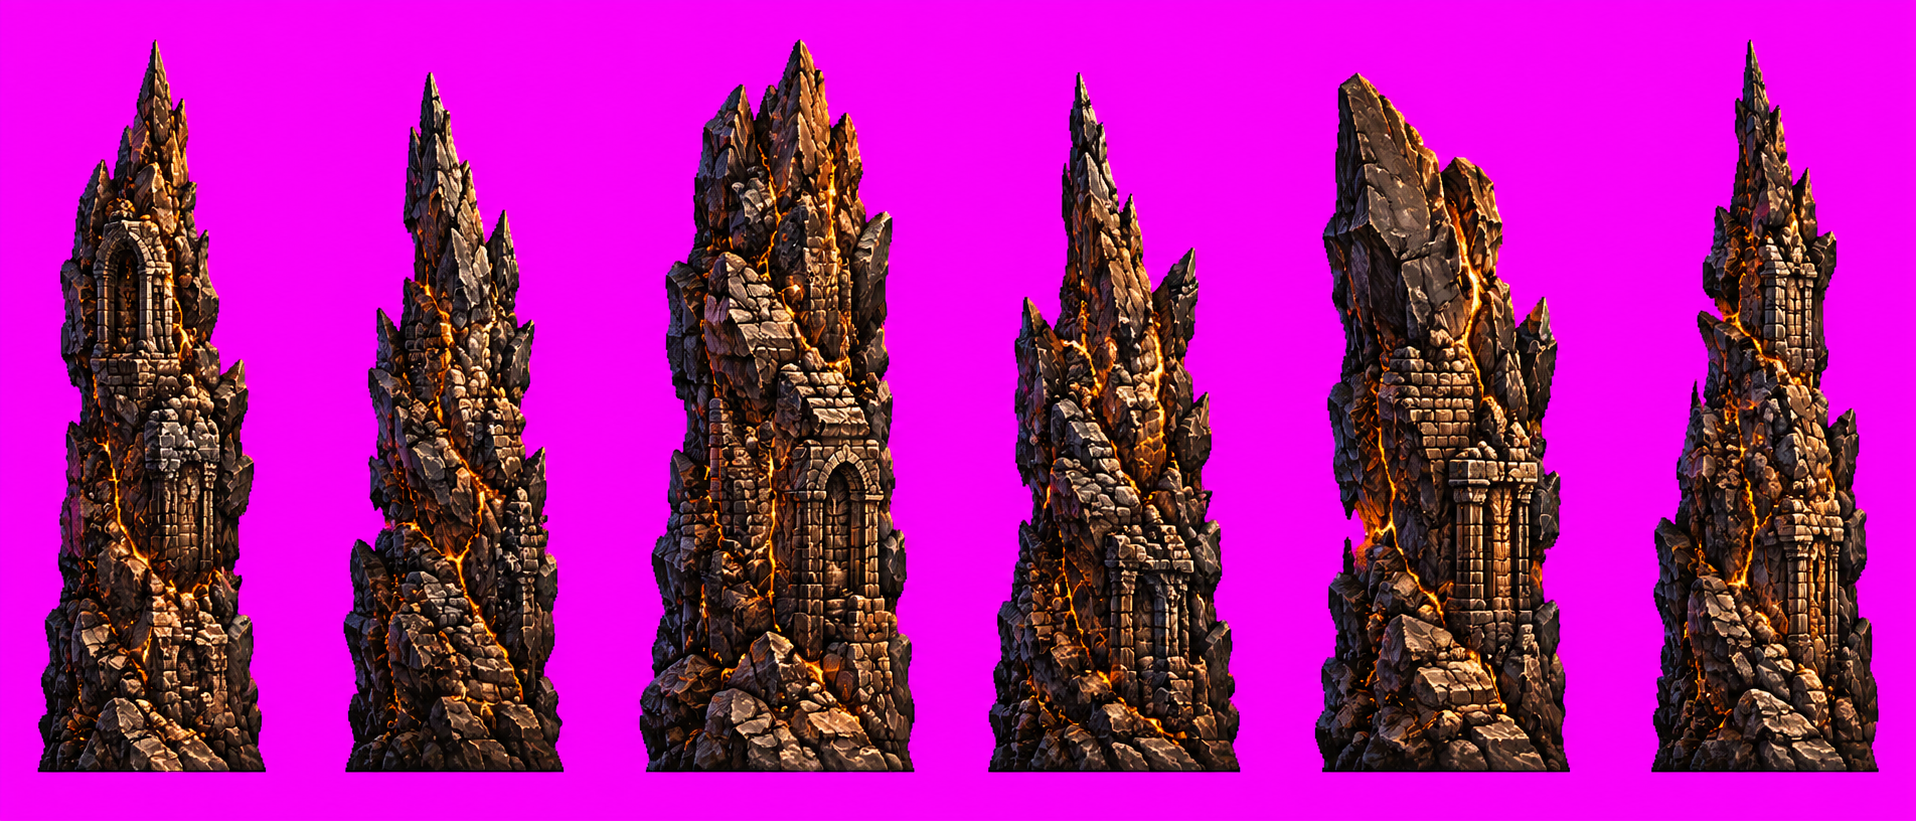
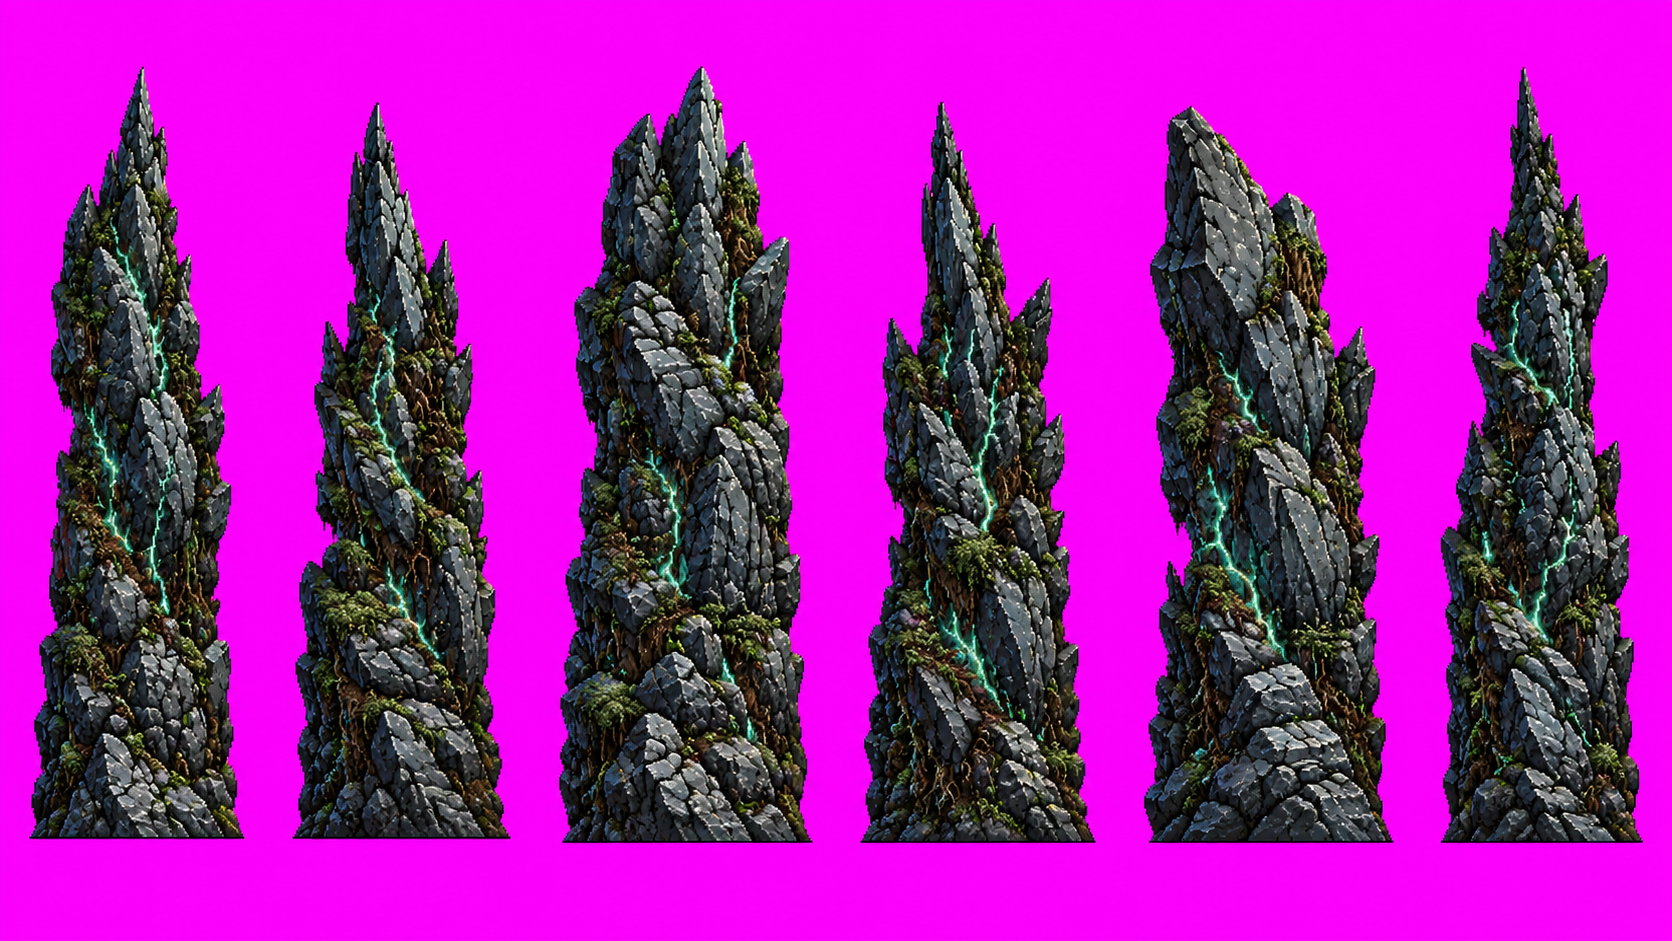
Earth-wall slabs redrawn: natural rock only, slate, moss and teal

diff --git a/docs/cloud-handoff.md b/docs/cloud-handoff.md
@@ -154,3 +154,9 @@ On `main` now (all tests pass, 2-tab online test passes through a PeerJS stand-i
 - **Mage:** turn left/right while a spell winds up; the stone wall holds everyone 12 px off its face (allies cross by roll/blink/vault/jump), every enemy batters it (hp 300, health bar), and it erupts from a glowing fissure in a wave of overshooting slabs. Painted slabs plug in via `assets/fx/earthwall-strip.png` (prompt: section 12 of `docs/mage-art-prompts.md`); not drawn yet.
 
 To do locally: paint the earth-wall slabs, build + upload to itch, then a real two-computer online test (report the exact message if it fails).
+
+## Local session, 3 October 2026 (night)
+
+- Earth-wall slabs painted: `assets/fx/earthwall-strip.png` (6 slabs on magenta). At the user's request they are raw rock and earth only (no masonry) in slate grey, moss green and **teal** magic seams. The wall's coded effects (the glowing fissure, sparks) may still be orange/gold: recolour them to teal to match.
+- **Standing instruction from the user:** new art and effects must stop defaulting to red and gold; give each spell, enemy and place its own colours.
+- Release build made from this state and checked locally: build time is stamped, the intro video skips, Mage and Rogue are painted, boss sheet and boss music load. Not uploaded to itch yet.
